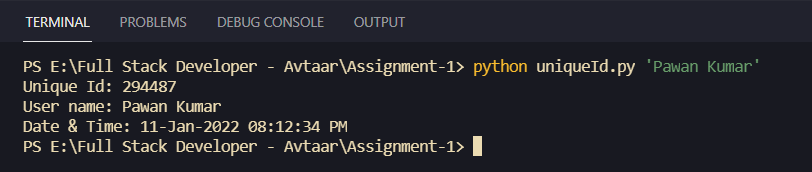
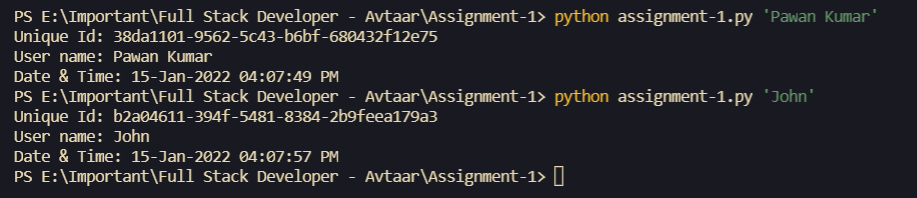
Update assignment 1

Changed region(s): [[0.0, 0.3488, 0.9236, 0.9593], [0.0, 0.0291, 0.9544, 0.3198]]

diff --git a/Assignment-1/assignment-1.py b/Assignment-1/assignment-1.py
@@ -1,9 +1,16 @@
 import sys
-import random
+import uuid
+import time
 import datetime
 
-def uniqueId(username, dt):
-    print("Unique Id:", random.randint(100000, 999999))
+def generate_uniqueId():
+
+    x = uuid.uuid4()
+    ms = time.time_ns()
+    return uuid.uuid5(x, str(ms))
+
+def assignment1(username, dt):
+    print("Unique Id:", generate_uniqueId())
     print("User name:", username)
     print("Date & Time: {}-{}-{} {}:{}:{} {}".format(dt.day, dt.strftime("%b"), dt.year, dt.strftime("%I"), dt.strftime("%M"), dt.strftime("%S"), dt.strftime("%p")))
 
@@ -12,7 +19,7 @@ def main():
         print("---Please enter user name---")
 
     else:
-     uniqueId(sys.argv[1], datetime.datetime.now())
+     assignment1(sys.argv[1], datetime.datetime.now())
 
 
 if __name__ == "__main__":

diff --git a/Assignment-1/README.md b/Assignment-1/README.md
@@ -1,10 +1,19 @@
-# Program to generate unique Id and submit a github PR
+# Program to generate unique Id and submit a GitHub PR
 
-I have created a python script "uniqueId.py" to get the above objectives
+To get the above objectives, I have created a python script, "assignment-1.py".
 
-To get the unique Id run following command in the directory of "uniqueId.py" file
+## Generate Unique Id
+ I have used a python library 'uuid' to generate a unique Id. uuid library has many methods to create a unique id.
+ I have used uuid4 and uuid5. 
+ * First, this python script will generate a random UUID with uuid4.
+ * Then I have used uuid5. It generates a UUID based on the SHA-1 hash of a namespace identifier (a UUID) and a name (a string). uuid5 will take the UUID generated by the uuid4 as a namespace identifier and time in milliseconds as a string(converting the milliseconds to string). 
+ 
+ UUID generated by uuid5 will be unique in all circumstances as it takes a random UUID generated by uuid4 and time in milliseconds.
+
+## To run the script
+To get the result, run the following command in the directory of the "assignment-1.py" file.
 ```
-python uniqueId.py <user name>
+python assignment-1.py <user name>
 ```
 ## Screenshot of the Output
 
